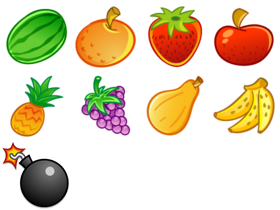
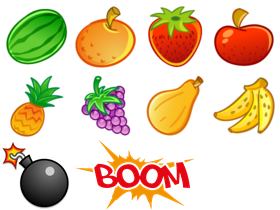
Bomb explodes

Changed region(s): [[0.2571, 0.6571, 0.6857, 1.0], [0.6571, 0.7429, 0.6857, 0.7714]]

diff --git a/js/src/bomb.js b/js/src/bomb.js
@@ -1,0 +1,66 @@
+(function() {
+
+  Backbone.Ephemeral = Backbone.Sprite.extend({
+    defaults: _.extend({}, Backbone.Sprite.prototype.defaults, {
+      type: "decoration",
+      state: "idle",
+      collision: false,
+      static: false,
+      persist: false,
+      alwaysUpdate: true
+    }),
+    update: function(dt) {
+      var animation = this.getAnimation(),
+          removeAfter = this.attributes.sequenceIndex == animation.sequences.length-1;
+
+      Backbone.Sprite.prototype.update.apply(this, arguments);
+
+      if (removeAfter)
+        _.defer(function() {
+          if (this.world) this.world.remove(this);
+          this.set({sequenceIndex: 0}, {silent:true});
+        }.bind(this));
+
+      return true;
+    }
+  });
+
+  Backbone.Boom = Backbone.Ephemeral.extend({
+    defaults: _.extend({}, Backbone.Ephemeral.prototype.defaults, {
+      name: "boom",
+      spriteSheet: "boom",
+      width: 120,
+      height: 70
+    }),
+    animations: {
+      idle: {
+        sequences: [0, 0, 0, 0, 0],
+        delay: 100
+      }
+    }
+  });
+
+  Backbone.Bomb = Backbone.Fruit.extend({
+    defaults: _.extend({}, Backbone.Fruit.prototype.defaults, {
+      name: "bomb"
+    }),
+    animations: _.object(_.map(Backbone.Fruit.prototype.animations, function(animation, name) {
+      return [name, _.extend({}, animation, {
+        sequences: [8]
+      })];
+    })),
+    onLand: function() {
+      _.delay(function() {
+        this.world.remove(this);
+      }.bind(this));
+
+      this.world.add(new Backbone.Boom({
+        x: this.get("x") + this.get("width")/2 - Backbone.Boom.prototype.defaults.width/2,
+        y: this.get("y") -10
+      }));
+    }
+  });
+
+  Backbone.fruitNames.push("bomb");
+
+}).call(this);

diff --git a/js/src/fruits.js b/js/src/fruits.js
@@ -138,8 +138,13 @@
     },
     onChangeState: function() {
       var cur = this.getStateInfo();
-      if (cur.mov == "walk")
+      if (cur.mov == "walk") {
         this.trigger("landed", this);
+        this.onLand();
+      }
+    },
+    onLand: function() {
+      // TODO: splat!
     }
   });
 
@@ -164,7 +169,6 @@
   createFruit("grapes", [5]);
   createFruit("pear", [6]);
   createFruit("banana", [7]);
-  createFruit("bomb", [8]);
 
   Backbone.fruitNames = _.reduce(Backbone, function(names, prop) {
     if (typeof prop == "function" && prop.prototype && prop.prototype.defaults &&

diff --git a/index.html b/index.html
@@ -33,6 +33,7 @@
         <script src="js/src/miam.js" type="text/javascript"></script>
         <script src="js/src/floor.js" type="text/javascript"></script>
         <script src="js/src/fruits.js" type="text/javascript"></script>
+        <script src="js/src/bomb.js" type="text/javascript"></script>
         <script src="js/src/gui.js" type="text/javascript"></script>
         <script src="js/src/main.js" type="text/javascript"></script>
         <script>

diff --git a/js/src/sprite-sheets.js b/js/src/sprite-sheets.js
@@ -20,6 +20,16 @@
     tileHeight: 70,
     tileColumns: 4,
     tileRows: 3
+  }, {
+    id: "boom",
+    img: "#fruits",
+    imgUrl: "img/fruits.png",
+    x: 70,
+    y: 140,
+    tileWidth: 120,
+    tileHeight: 70,
+    tileColumns: 1,
+    tileRows: 1
   }];
 
 }).call(this);
